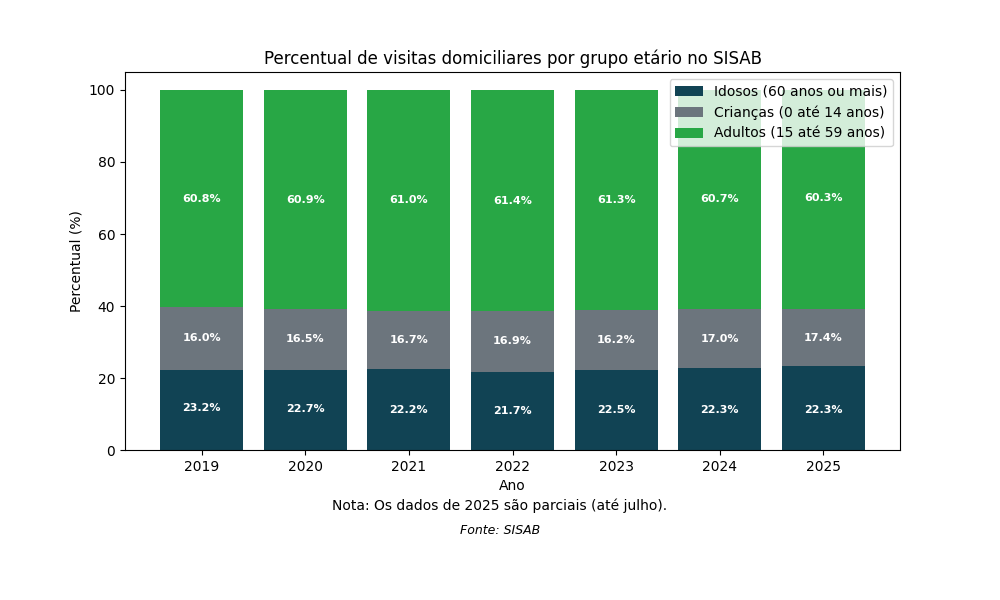
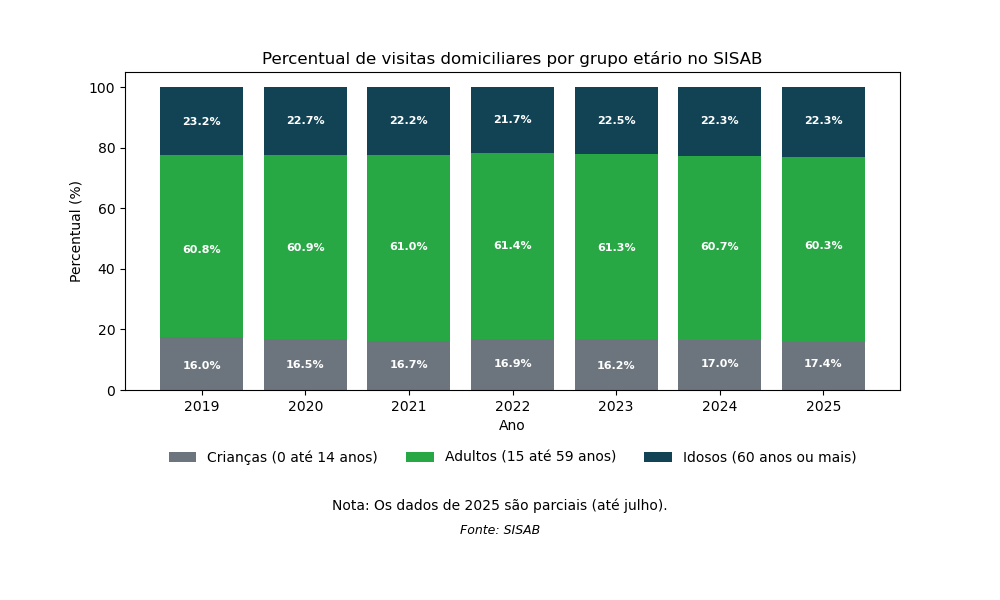
ordem grupo etario

diff --git a/SISAB/dados/visita_domiciliar/plot_stacked_bars.py b/SISAB/dados/visita_domiciliar/plot_stacked_bars.py
@@ -21,21 +21,21 @@ idosos = df_plot['Percentual Idosos']
 criancas = df_plot['Percentual Crianças']
 adultos = df_plot['Percentual Adultos']
 
-plt.bar(anos, idosos, label='Idosos (60 anos ou mais)', color='#114354')
-plt.bar(anos, criancas, bottom=idosos, label='Crianças (0 até 14 anos)', color='#6c757d')
-plt.bar(anos, adultos, bottom=idosos + criancas, label='Adultos (15 até 59 anos)', color='#28a745')
+plt.bar(anos, criancas, label='Crianças (0 até 14 anos)', color='#6c757d')
+plt.bar(anos, adultos, bottom=criancas, label='Adultos (15 até 59 anos)', color='#28a745')
+plt.bar(anos, idosos, bottom=criancas + adultos, label='Idosos (60 anos ou mais)', color='#114354')
 
 for i, ano in enumerate(anos):
-    plt.text(ano, idosos[i]/2, f"{idosos[i]:.1f}%", ha='center', va='center', fontsize=8, color='white', fontweight='bold')
-    plt.text(ano, idosos[i] + criancas[i]/2, f"{criancas[i]:.1f}%", ha='center', va='center', fontsize=8, color='white', fontweight='bold')
-    plt.text(ano, idosos[i] + criancas[i] + adultos[i]/2, f"{adultos[i]:.1f}%", ha='center', va='center', fontsize=8, color='white', fontweight='bold')
+    plt.text(ano, criancas[i]/2, f"{criancas[i]:.1f}%", ha='center', va='center', fontsize=8, color='white', fontweight='bold')
+    plt.text(ano, criancas[i] + adultos[i]/2, f"{adultos[i]:.1f}%", ha='center', va='center', fontsize=8, color='white', fontweight='bold')
+    plt.text(ano, criancas[i] + adultos[i] + idosos[i]/2, f"{idosos[i]:.1f}%", ha='center', va='center', fontsize=8, color='white', fontweight='bold')
 
 plt.title('Percentual de visitas domiciliares por grupo etário no SISAB')
 plt.xlabel('Ano')
 plt.ylabel('Percentual (%)')
-plt.legend()
+plt.legend(loc='upper center', bbox_to_anchor=(0.5, -0.15), fancybox=False, shadow=False, frameon=False, ncol=3)
 
-plt.subplots_adjust(bottom=0.25)
+plt.subplots_adjust(bottom=0.35)
 
 plt.figtext(0.5, 0.15, 'Nota: Os dados de 2025 são parciais (até julho).',
             ha='center', fontsize=10)
